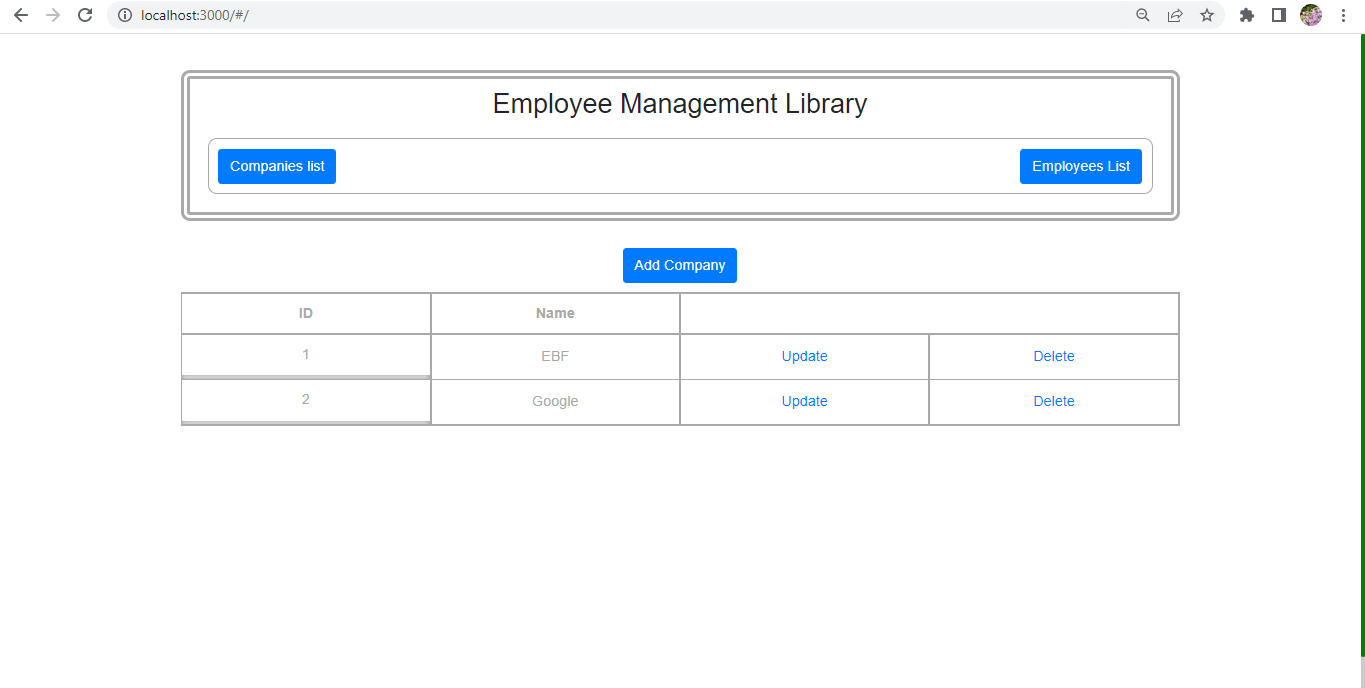
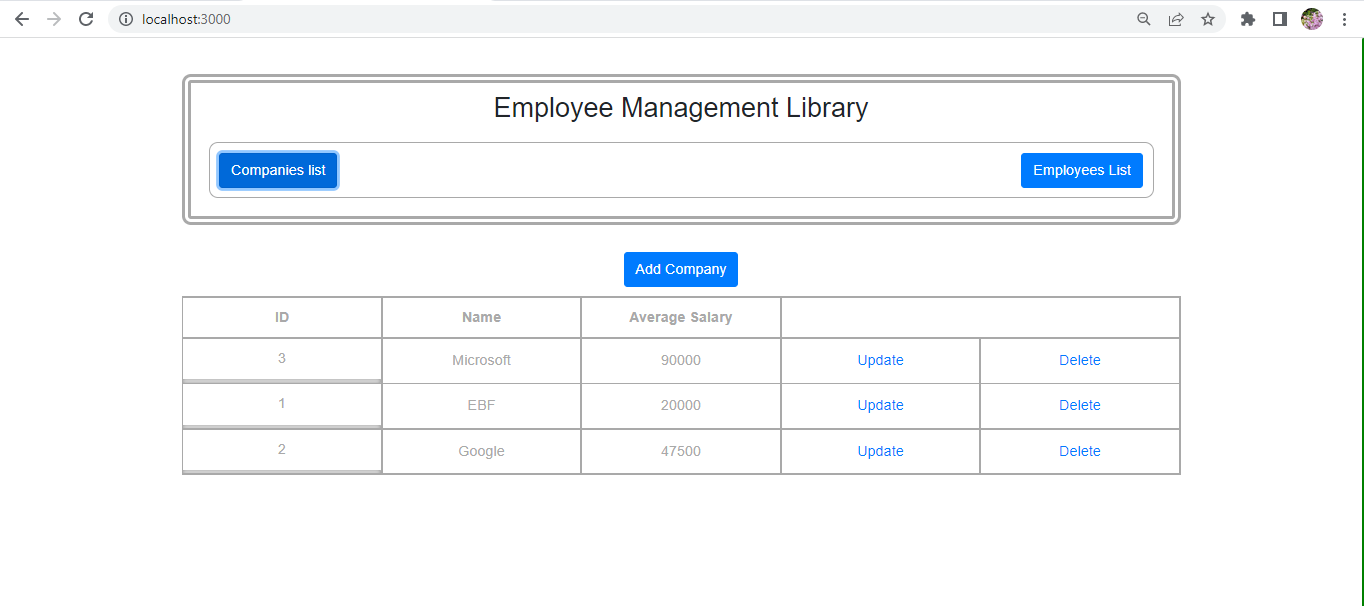
Added column for average salary

diff --git a/src/components/App.js b/src/components/App.js
@@ -27,10 +27,27 @@ const App = (props) => {
       setLoader(true)
       const { data } = await axios.get(`${API_URL}/api/v1/companies`);
       setErrorMsg('');
-      setCompaniesList(data.content);
+      data.content.forEach(
+        e =>{
+          getAverageSalary(e)
+        }
+      )
       setLoader(false)
     } catch (error) {
       error.response && setErrorMsg(error);
+    }
+  }
+
+  const getAverageSalary = async(e) => {
+    try{
+      const { data } = await axios.get(`${API_URL}/api/v1/companies/${e.id}/avg_salary`);
+      const salaryObj = {"avg_salary":data}
+      const wholeData = {...e, ...salaryObj}
+      setCompaniesList(prevData => [...prevData ,wholeData]);
+      setLoader(false)
+    }
+    catch(error){
+      error.response && setErrorMsg(error)
     }
   }
 
@@ -48,7 +65,9 @@ const App = (props) => {
           'Content-Type': 'application/json'
         }
       });
-      getAllCompanies()
+      props.history.push('/list')
+      props.history.push('/')
+
       closeModal()
     }
 
@@ -56,7 +75,8 @@ const App = (props) => {
 
   const deleteCompany = async(id) => {
     await axios.delete(`${API_URL}/api/v1/companies/`+id)
-    getAllCompanies()
+    props.history.push('/list')
+    props.history.push('/')
   }
 
   const addCompany = async() => {
@@ -73,8 +93,9 @@ const App = (props) => {
           'Content-Type': 'application/json'
         }
       });
-      getAllCompanies()
       closeModal()
+      props.history.push('/list')
+      props.history.push('/')
     }
   }
 
@@ -112,6 +133,7 @@ const App = (props) => {
               <div className='modal-body'>
                 <p>Enter company name:</p>
                 <input style={{width:"100%"}} type="text" ref={inputNameRef}></input>
+                {modalError && <p className="errorMsg">{modalError}</p>}
                 <Button style={{marginTop:"5px"}} onClick={() =>  addCompany()}>Add</Button>
               </div>
             </div>
@@ -127,6 +149,7 @@ const App = (props) => {
                 <div className='modal-body'>
                   <p>Enter company name:</p>
                   <input style={{width:"100%"}} type="text" ref={inputNameRef}></input>
+                  {modalError && <p className="errorMsg">{modalError}</p>}
                   <Button style={{marginTop:"5px"}} onClick={() =>  updateCompany()}>Update</Button>
                 </div>
               </div>
@@ -144,16 +167,19 @@ const App = (props) => {
             <tr>
               <th>ID</th>
               <th>Name</th>
+              <th>Average Salary</th>
+
 
             </tr>
           </thead>
           <tbody>
             {companiesList.length > 0 ? (
               companiesList.map(
-                ({ id, name }) => (
+                ({ id, name, avg_salary }) => (
                   <tr key={id}>
                     <td className="document-title">{id}</td>
                     <td className="document-description">{name}</td>
+                    <td className="document-description">{avg_salary}</td>
                     <td className="document-description" onClick={() =>openModal("update", id)}>
                       <a style={{alignSelf:'center', justifySelf:'center'}}
                         href="#/">
